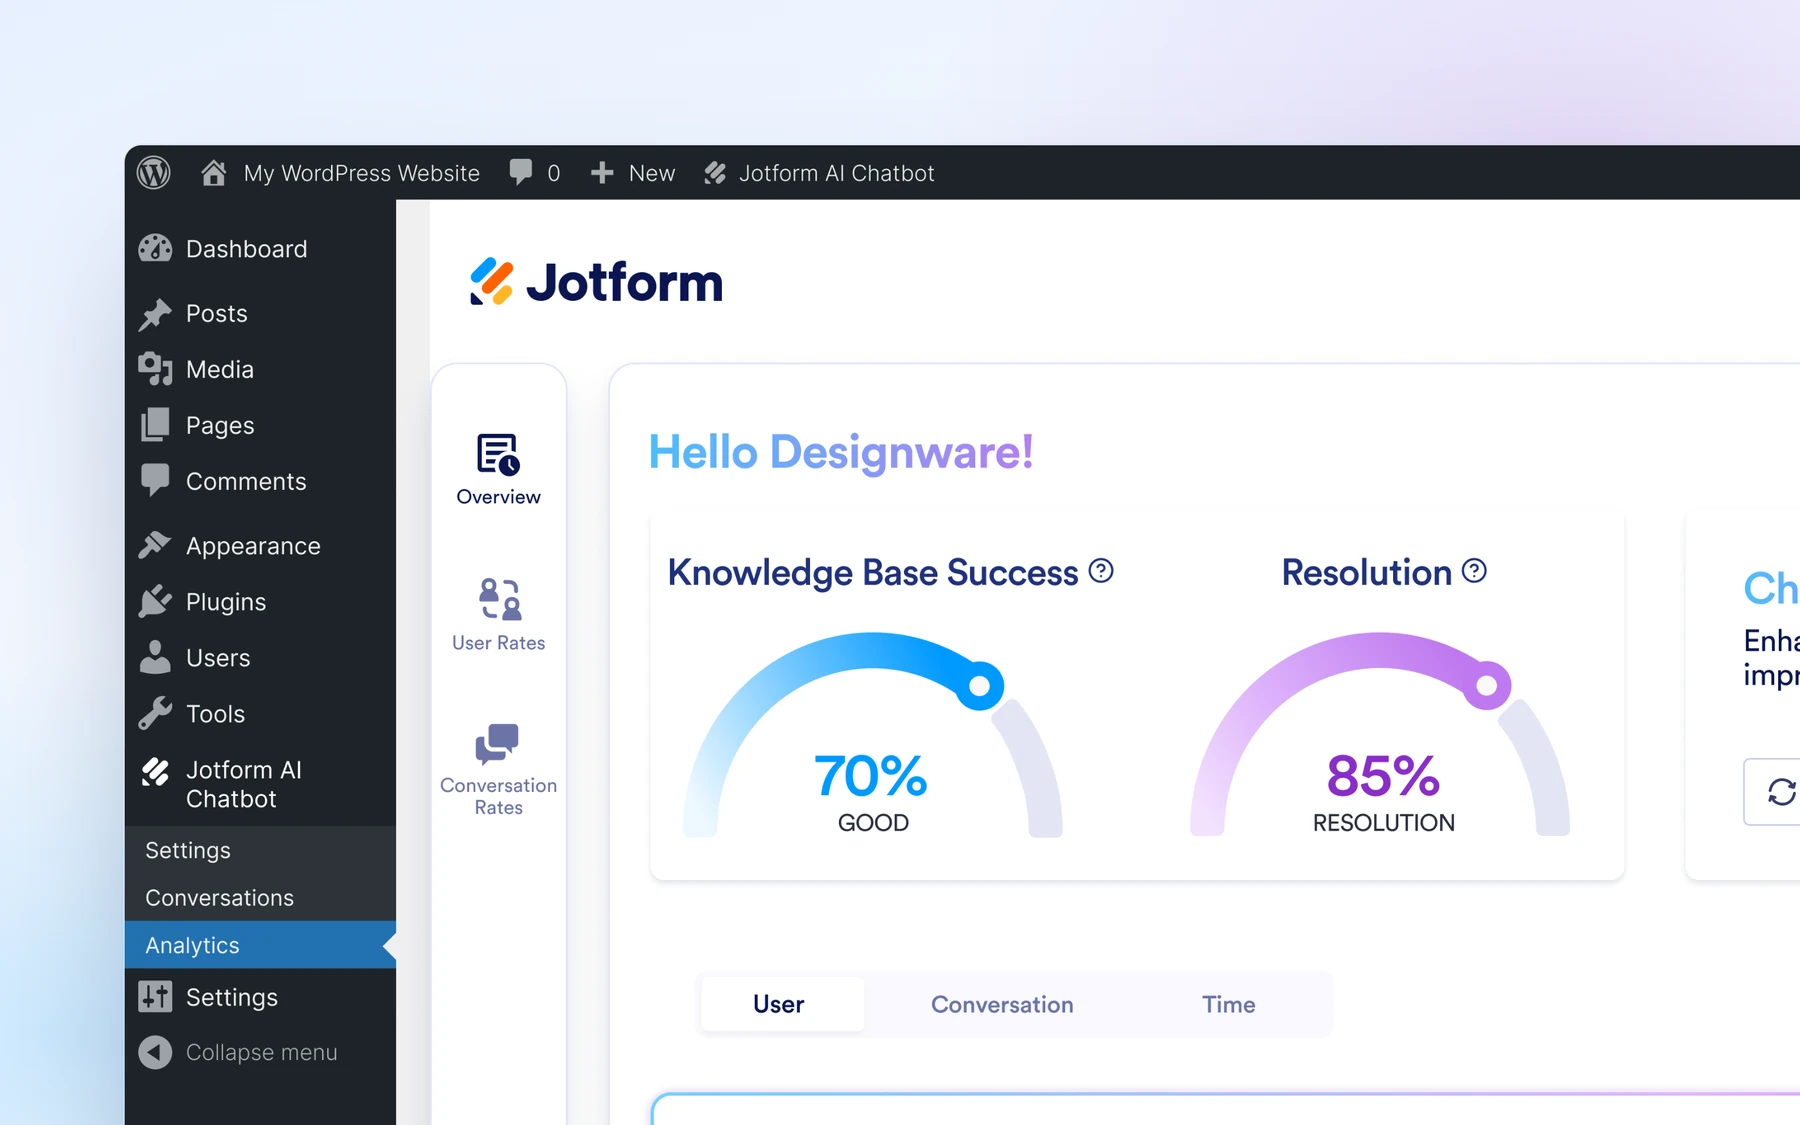
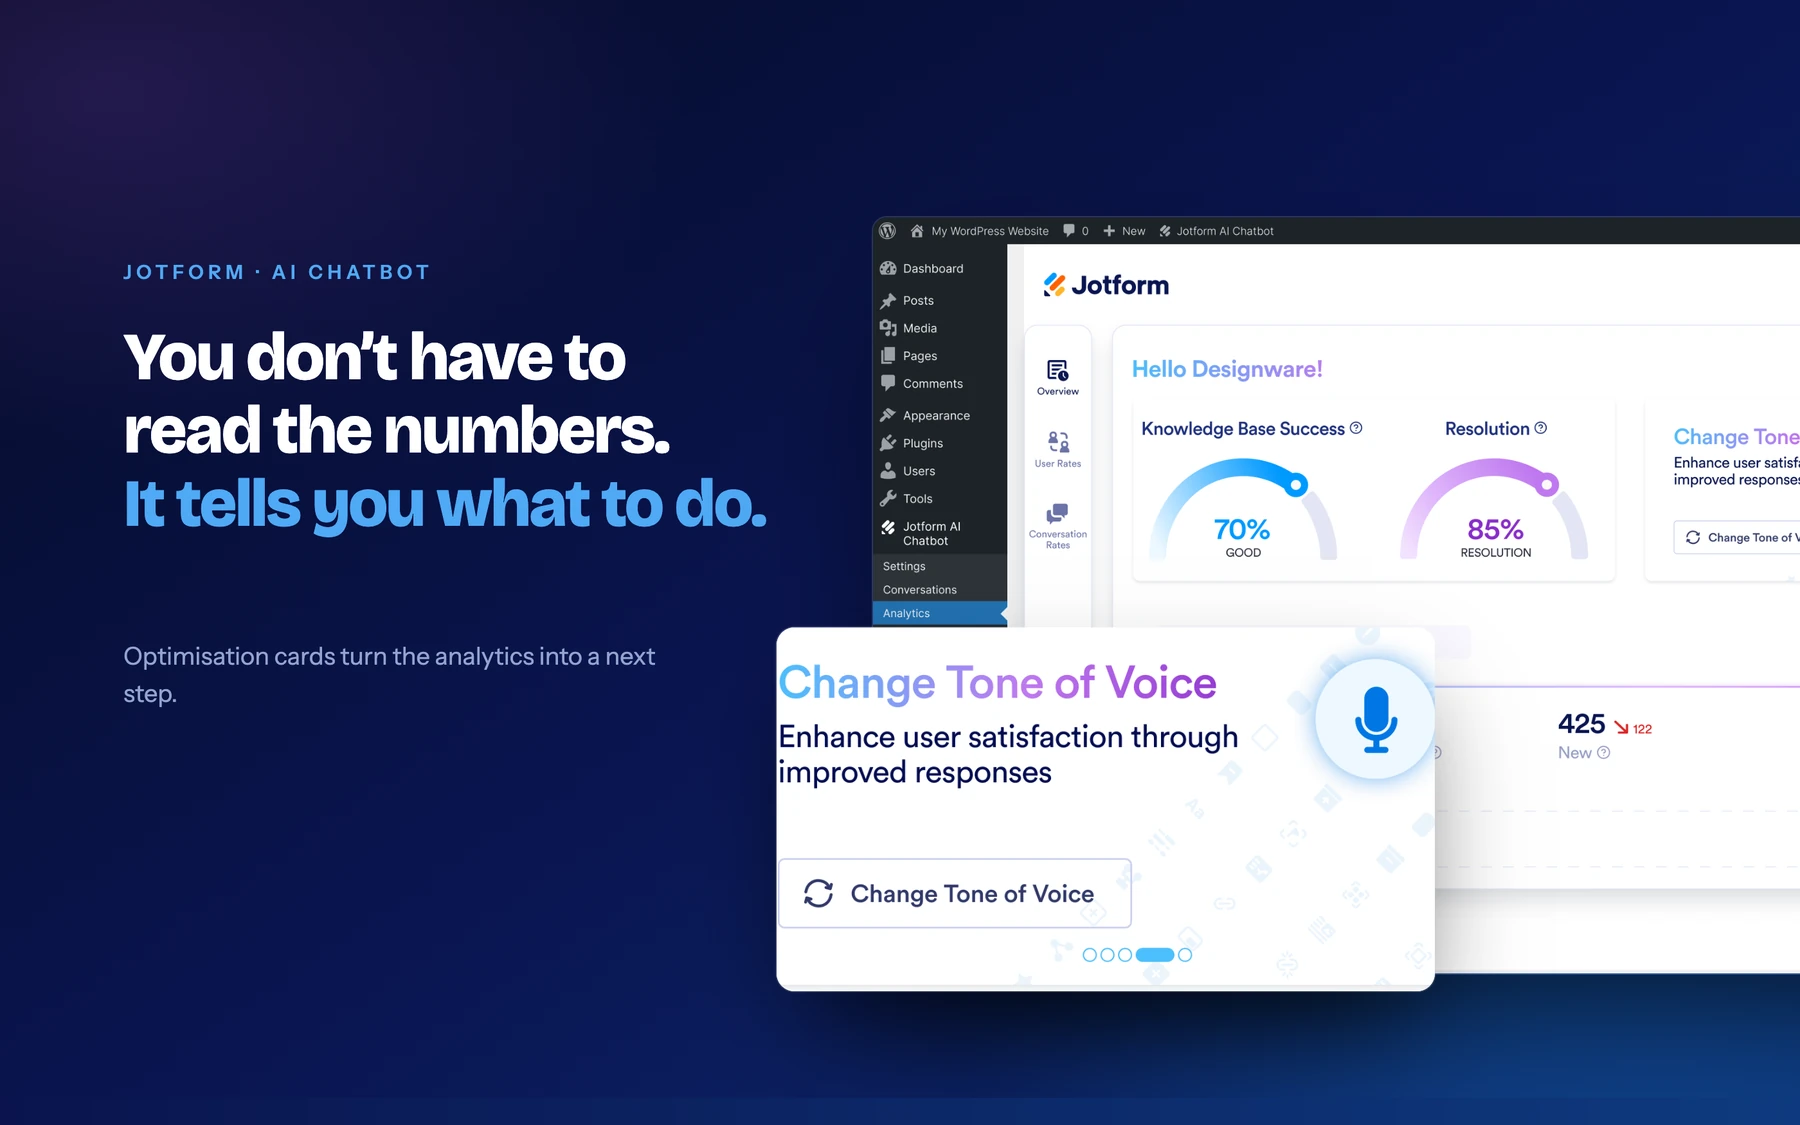
Redraw the Chatbot cover in the language of the others
Elif, looking at base360, Whallet and Cursor side by side: they are one family
— dark ground, letterspaced eyebrow, a sentence set large with its second line
in the accent, and the product placed in the composition rather than
photographed. The first cover here was a screenshot on a light ground. This one
joins the family, in Jotform's own navy and blue.

The sentence is the product's actual argument, in her words: you do not have to
read the numbers, the dashboard tells you what to do. So the "Change Tone of
Voice" card is lifted off the screen and set in front of it — the same move as
the comment sheet on base360's phone — because the claim is about that card,
and a cover should show the thing it claims.

diff --git a/src/portfolio-artifact.tmpl.html b/src/portfolio-artifact.tmpl.html
@@ -1248,11 +1248,12 @@ const PROJECTS = [
    year:'2026', disc:['ai','product','uiux']},
 
   {key:'chatbot', mark:'Chatbot Dashboard', style:'font-size:19px;font-weight:600;letter-spacing:-.01em',
-   /* kapak: Overview ekranının 3× export'u, sağdan ve alttan taşacak şekilde
-      yerleştirilmiş. Bütün ekranı karta sığdırmak yazıyı okunmaz yapıyordu;
-      taşırınca "Hello Designware!", iki gösterge ve WP kenar çubuğu kart
-      boyunda okunuyor. Zemin ürünün kendi mavisi. */
-   cover:'{{ASSET:cover/chatbot.webp}}', coverBg:'#E7F0FF',
+   /* kapak: diğerlerinin diliyle — koyu zemin, harf aralıklı üst başlık,
+      Bricolage cümle (ikinci satır vurguda), ürün kompozisyonun içinde. İddia
+      panelin kendi iddiası: sayıları okumak zorunda değilsin, kart sana ne
+      yapacağını söylüyor. O yüzden "Change Tone of Voice" kartı base360'ın
+      yorum sayfası gibi ekranın üstüne kaldırıldı — cümlenin kanıtı. */
+   cover:'{{ASSET:cover/chatbot.webp}}', coverBg:'#0A1551',
    logo:null,                                       client:'Jotform',          clientLogo:null,  /* ← Elif: Jotform logosu */
    year:'2025', disc:['web','product','ai']},
 

diff --git a/404.html b/404.html
@@ -1263,11 +1263,12 @@ const PROJECTS = [
    year:'2026', disc:['ai','product','uiux']},
 
   {key:'chatbot', mark:'Chatbot Dashboard', style:'font-size:19px;font-weight:600;letter-spacing:-.01em',
-   /* kapak: Overview ekranının 3× export'u, sağdan ve alttan taşacak şekilde
-      yerleştirilmiş. Bütün ekranı karta sığdırmak yazıyı okunmaz yapıyordu;
-      taşırınca "Hello Designware!", iki gösterge ve WP kenar çubuğu kart
-      boyunda okunuyor. Zemin ürünün kendi mavisi. */
-   cover:'/assets/cover/chatbot.webp', coverBg:'#E7F0FF',
+   /* kapak: diğerlerinin diliyle — koyu zemin, harf aralıklı üst başlık,
+      Bricolage cümle (ikinci satır vurguda), ürün kompozisyonun içinde. İddia
+      panelin kendi iddiası: sayıları okumak zorunda değilsin, kart sana ne
+      yapacağını söylüyor. O yüzden "Change Tone of Voice" kartı base360'ın
+      yorum sayfası gibi ekranın üstüne kaldırıldı — cümlenin kanıtı. */
+   cover:'/assets/cover/chatbot.webp', coverBg:'#0A1551',
    logo:null,                                       client:'Jotform',          clientLogo:null,  /* ← Elif: Jotform logosu */
    year:'2025', disc:['web','product','ai']},
 

diff --git a/case/alti/index.html b/case/alti/index.html
@@ -1263,11 +1263,12 @@ const PROJECTS = [
    year:'2026', disc:['ai','product','uiux']},
 
   {key:'chatbot', mark:'Chatbot Dashboard', style:'font-size:19px;font-weight:600;letter-spacing:-.01em',
-   /* kapak: Overview ekranının 3× export'u, sağdan ve alttan taşacak şekilde
-      yerleştirilmiş. Bütün ekranı karta sığdırmak yazıyı okunmaz yapıyordu;
-      taşırınca "Hello Designware!", iki gösterge ve WP kenar çubuğu kart
-      boyunda okunuyor. Zemin ürünün kendi mavisi. */
-   cover:'/assets/cover/chatbot.webp', coverBg:'#E7F0FF',
+   /* kapak: diğerlerinin diliyle — koyu zemin, harf aralıklı üst başlık,
+      Bricolage cümle (ikinci satır vurguda), ürün kompozisyonun içinde. İddia
+      panelin kendi iddiası: sayıları okumak zorunda değilsin, kart sana ne
+      yapacağını söylüyor. O yüzden "Change Tone of Voice" kartı base360'ın
+      yorum sayfası gibi ekranın üstüne kaldırıldı — cümlenin kanıtı. */
+   cover:'/assets/cover/chatbot.webp', coverBg:'#0A1551',
    logo:null,                                       client:'Jotform',          clientLogo:null,  /* ← Elif: Jotform logosu */
    year:'2025', disc:['web','product','ai']},
 

diff --git a/case/cursor/index.html b/case/cursor/index.html
@@ -1263,11 +1263,12 @@ const PROJECTS = [
    year:'2026', disc:['ai','product','uiux']},
 
   {key:'chatbot', mark:'Chatbot Dashboard', style:'font-size:19px;font-weight:600;letter-spacing:-.01em',
-   /* kapak: Overview ekranının 3× export'u, sağdan ve alttan taşacak şekilde
-      yerleştirilmiş. Bütün ekranı karta sığdırmak yazıyı okunmaz yapıyordu;
-      taşırınca "Hello Designware!", iki gösterge ve WP kenar çubuğu kart
-      boyunda okunuyor. Zemin ürünün kendi mavisi. */
-   cover:'/assets/cover/chatbot.webp', coverBg:'#E7F0FF',
+   /* kapak: diğerlerinin diliyle — koyu zemin, harf aralıklı üst başlık,
+      Bricolage cümle (ikinci satır vurguda), ürün kompozisyonun içinde. İddia
+      panelin kendi iddiası: sayıları okumak zorunda değilsin, kart sana ne
+      yapacağını söylüyor. O yüzden "Change Tone of Voice" kartı base360'ın
+      yorum sayfası gibi ekranın üstüne kaldırıldı — cümlenin kanıtı. */
+   cover:'/assets/cover/chatbot.webp', coverBg:'#0A1551',
    logo:null,                                       client:'Jotform',          clientLogo:null,  /* ← Elif: Jotform logosu */
    year:'2025', disc:['web','product','ai']},
 

diff --git a/case/whallet/index.html b/case/whallet/index.html
@@ -1263,11 +1263,12 @@ const PROJECTS = [
    year:'2026', disc:['ai','product','uiux']},
 
   {key:'chatbot', mark:'Chatbot Dashboard', style:'font-size:19px;font-weight:600;letter-spacing:-.01em',
-   /* kapak: Overview ekranının 3× export'u, sağdan ve alttan taşacak şekilde
-      yerleştirilmiş. Bütün ekranı karta sığdırmak yazıyı okunmaz yapıyordu;
-      taşırınca "Hello Designware!", iki gösterge ve WP kenar çubuğu kart
-      boyunda okunuyor. Zemin ürünün kendi mavisi. */
-   cover:'/assets/cover/chatbot.webp', coverBg:'#E7F0FF',
+   /* kapak: diğerlerinin diliyle — koyu zemin, harf aralıklı üst başlık,
+      Bricolage cümle (ikinci satır vurguda), ürün kompozisyonun içinde. İddia
+      panelin kendi iddiası: sayıları okumak zorunda değilsin, kart sana ne
+      yapacağını söylüyor. O yüzden "Change Tone of Voice" kartı base360'ın
+      yorum sayfası gibi ekranın üstüne kaldırıldı — cümlenin kanıtı. */
+   cover:'/assets/cover/chatbot.webp', coverBg:'#0A1551',
    logo:null,                                       client:'Jotform',          clientLogo:null,  /* ← Elif: Jotform logosu */
    year:'2025', disc:['web','product','ai']},
 

diff --git a/cv/index.html b/cv/index.html
@@ -1263,11 +1263,12 @@ const PROJECTS = [
    year:'2026', disc:['ai','product','uiux']},
 
   {key:'chatbot', mark:'Chatbot Dashboard', style:'font-size:19px;font-weight:600;letter-spacing:-.01em',
-   /* kapak: Overview ekranının 3× export'u, sağdan ve alttan taşacak şekilde
-      yerleştirilmiş. Bütün ekranı karta sığdırmak yazıyı okunmaz yapıyordu;
-      taşırınca "Hello Designware!", iki gösterge ve WP kenar çubuğu kart
-      boyunda okunuyor. Zemin ürünün kendi mavisi. */
-   cover:'/assets/cover/chatbot.webp', coverBg:'#E7F0FF',
+   /* kapak: diğerlerinin diliyle — koyu zemin, harf aralıklı üst başlık,
+      Bricolage cümle (ikinci satır vurguda), ürün kompozisyonun içinde. İddia
+      panelin kendi iddiası: sayıları okumak zorunda değilsin, kart sana ne
+      yapacağını söylüyor. O yüzden "Change Tone of Voice" kartı base360'ın
+      yorum sayfası gibi ekranın üstüne kaldırıldı — cümlenin kanıtı. */
+   cover:'/assets/cover/chatbot.webp', coverBg:'#0A1551',
    logo:null,                                       client:'Jotform',          clientLogo:null,  /* ← Elif: Jotform logosu */
    year:'2025', disc:['web','product','ai']},
 

diff --git a/index.html b/index.html
@@ -1263,11 +1263,12 @@ const PROJECTS = [
    year:'2026', disc:['ai','product','uiux']},
 
   {key:'chatbot', mark:'Chatbot Dashboard', style:'font-size:19px;font-weight:600;letter-spacing:-.01em',
-   /* kapak: Overview ekranının 3× export'u, sağdan ve alttan taşacak şekilde
-      yerleştirilmiş. Bütün ekranı karta sığdırmak yazıyı okunmaz yapıyordu;
-      taşırınca "Hello Designware!", iki gösterge ve WP kenar çubuğu kart
-      boyunda okunuyor. Zemin ürünün kendi mavisi. */
-   cover:'/assets/cover/chatbot.webp', coverBg:'#E7F0FF',
+   /* kapak: diğerlerinin diliyle — koyu zemin, harf aralıklı üst başlık,
+      Bricolage cümle (ikinci satır vurguda), ürün kompozisyonun içinde. İddia
+      panelin kendi iddiası: sayıları okumak zorunda değilsin, kart sana ne
+      yapacağını söylüyor. O yüzden "Change Tone of Voice" kartı base360'ın
+      yorum sayfası gibi ekranın üstüne kaldırıldı — cümlenin kanıtı. */
+   cover:'/assets/cover/chatbot.webp', coverBg:'#0A1551',
    logo:null,                                       client:'Jotform',          clientLogo:null,  /* ← Elif: Jotform logosu */
    year:'2025', disc:['web','product','ai']},
 
